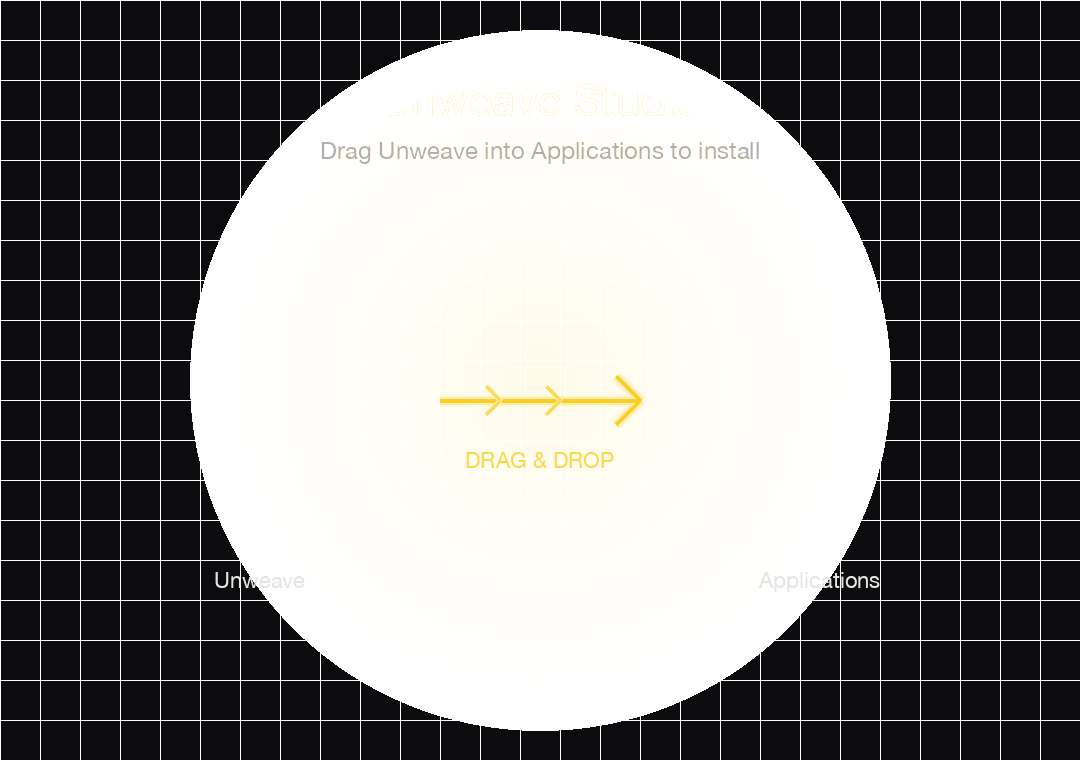
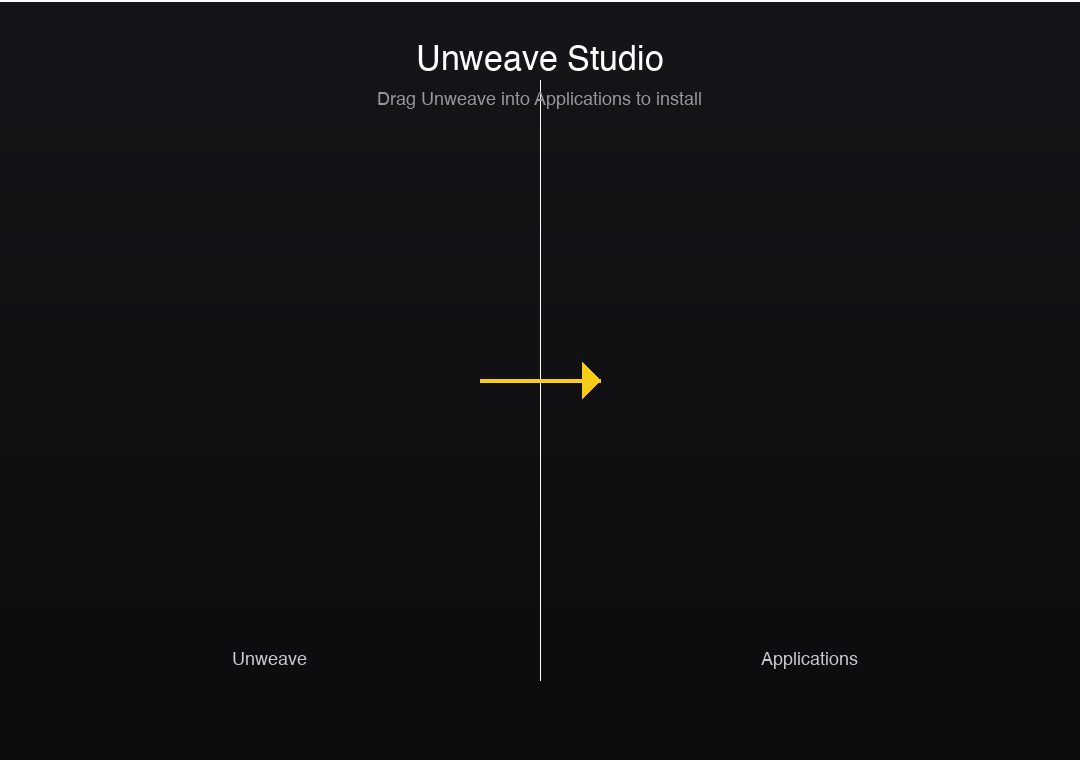
fix(dmg): clean minimal dark background, remove broken grid/circle art

diff --git a/scripts/generate_dmg_background.py b/scripts/generate_dmg_background.py
@@ -1,96 +1,78 @@
 #!/usr/bin/env python3
 """
-Generates a Retina macOS DMG background image (1080x760 px for 540x380 window).
+Generates a clean, professional macOS DMG background (1080x760 Retina = 540x380 window).
 """
 import os
-import math
 from PIL import Image, ImageDraw, ImageFont
 
 def create_dmg_background(output_path):
     width = 1080
     height = 760
-    
-    # Create dark image
-    img = Image.new("RGBA", (width, height), (12, 12, 14, 255))
+
+    # Clean dark slate background
+    img = Image.new("RGBA", (width, height), (18, 18, 22, 255))
     draw = ImageDraw.Draw(img)
-    
-    # Radial ambient gold glow in the center
-    center_x, center_y = width // 2, height // 2
-    for r in range(350, 0, -5):
-        alpha = int(25 * (1.0 - (r / 350.0))**1.5)
-        color = (250, 204, 21, alpha)
-        draw.ellipse([center_x - r, center_y - r, center_x + r, center_y + r], fill=color)
 
-    # Ambient subtle grid or gradient
-    for y in range(0, height, 40):
-        draw.line([(0, y), (width, y)], fill=(255, 255, 255, 4), width=1)
-    for x in range(0, width, 40):
-        draw.line([(x, 0), (x, height)], fill=(255, 255, 255, 4), width=1)
+    # Subtle vertical gradient overlay
+    for y in range(height):
+        factor = y / height
+        r = int(22 * (1 - factor) + 12 * factor)
+        g = int(22 * (1 - factor) + 12 * factor)
+        b = int(26 * (1 - factor) + 14 * factor)
+        draw.line([(0, y), (width, y)], fill=(r, g, b, 255))
 
-    # Top Header Title: "UNWEAVE STUDIO"
-    # Left zone: x=260, y=400 (icon is at x=130, y=200 in 1x scale)
-    # Right zone: x=820, y=400 (icon is at x=410, y=200 in 1x scale)
+    # Subtle divider line in the center
+    center_x = width // 2
+    draw.line([(center_x, 80), (center_x, height - 80)], fill=(255, 255, 255, 18), width=1)
 
-    # Center Directional Arrow (from x=420 to x=660, y=400)
-    arrow_y = 400
-    arrow_start_x = 440
-    arrow_end_x = 640
+    # Arrow pointing right — clean, simple, centered
+    arrow_y = height // 2
+    arrow_x1 = center_x - 60
+    arrow_x2 = center_x + 60
+    # Line
+    draw.line([(arrow_x1, arrow_y), (arrow_x2, arrow_y)], fill=(250, 204, 21, 200), width=4)
+    # Arrowhead
+    head = 18
+    draw.polygon([
+        (arrow_x2, arrow_y),
+        (arrow_x2 - head, arrow_y - head),
+        (arrow_x2 - head, arrow_y + head),
+    ], fill=(250, 204, 21, 200))
 
-    # Draw glowing arrow line
-    for w, alpha in [(12, 40), (8, 90), (4, 240)]:
-        draw.line([(arrow_start_x, arrow_y), (arrow_end_x, arrow_y)], fill=(250, 204, 21, alpha), width=w)
-        # Arrowhead
-        head_len = 24
-        draw.line([(arrow_end_x - head_len, arrow_y - head_len), (arrow_end_x, arrow_y)], fill=(250, 204, 21, alpha), width=w)
-        draw.line([(arrow_end_x - head_len, arrow_y + head_len), (arrow_end_x, arrow_y)], fill=(250, 204, 21, alpha), width=w)
-
-    # Chevrons
-    for cx in [500, 560]:
-        for w, alpha in [(6, 50), (3, 180)]:
-            draw.line([(cx - 14, arrow_y - 14), (cx, arrow_y)], fill=(250, 204, 21, alpha), width=w)
-            draw.line([(cx - 14, arrow_y + 14), (cx, arrow_y)], fill=(250, 204, 21, alpha), width=w)
-
-    # Try loading a system font
-    font_large = None
+    # Try to load a system font
+    font_title = None
     font_sub = None
-    font_label = None
-    
-    font_paths = [
-        "/System/Library/Fonts/SFPro-Bold.otf",
-        "/System/Library/Fonts/SFProDisplay-Bold.otf",
-        "/System/Library/Fonts/HelveticaNeue.ttc",
-        "/System/Library/Fonts/Supplemental/Arial Bold.ttf",
+    for fp in [
         "/System/Library/Fonts/Helvetica.ttc",
-    ]
-    
-    for fp in font_paths:
+        "/System/Library/Fonts/SFPro-Bold.otf",
+        "/System/Library/Fonts/Supplemental/Arial Bold.ttf",
+    ]:
         if os.path.exists(fp):
             try:
-                font_large = ImageFont.truetype(fp, 44)
-                font_sub = ImageFont.truetype(fp, 24)
-                font_label = ImageFont.truetype(fp, 22)
+                font_title = ImageFont.truetype(fp, 34)
+                font_sub = ImageFont.truetype(fp, 18)
                 break
             except Exception:
                 continue
-
-    if not font_large:
-        font_large = ImageFont.load_default()
+    if not font_title:
+        font_title = ImageFont.load_default()
         font_sub = ImageFont.load_default()
-        font_label = ImageFont.load_default()
 
-    # Draw Text
-    draw.text((center_x, 100), "Unweave Studio", fill=(255, 255, 255, 240), font=font_large, anchor="mm")
-    draw.text((center_x, 150), "Drag Unweave into Applications to install", fill=(161, 161, 170, 220), font=font_sub, anchor="mm")
-    draw.text((center_x, 460), "DRAG & DROP", fill=(250, 204, 21, 200), font=font_label, anchor="mm")
+    # Top title
+    draw.text((width // 2, 60), "Unweave Studio", fill=(255, 255, 255, 220), font=font_title, anchor="mm")
+    draw.text((width // 2, 100), "Drag Unweave into Applications to install", fill=(150, 150, 160, 200), font=font_sub, anchor="mm")
 
-    # Left & Right target labels
-    draw.text((260, 580), "Unweave", fill=(220, 220, 220, 200), font=font_label, anchor="mm")
-    draw.text((820, 580), "Applications", fill=(220, 220, 220, 200), font=font_label, anchor="mm")
+    # Left label — App
+    draw.text((270, height - 100), "Unweave", fill=(200, 200, 210, 180), font=font_sub, anchor="mm")
+    # Right label — Applications
+    draw.text((810, height - 100), "Applications", fill=(200, 200, 210, 180), font=font_sub, anchor="mm")
 
-    # Save
+    # Thin top border
+    draw.line([(0, 0), (width, 0)], fill=(255, 255, 255, 30), width=2)
+
     os.makedirs(os.path.dirname(output_path), exist_ok=True)
-    img.save(output_path, "PNG")
-    print(f"✅ Generated DMG background at {output_path}")
+    img.convert("RGB").save(output_path, "PNG")
+    print(f"✅ Generated clean DMG background at {output_path}")
 
 if __name__ == "__main__":
     out = os.path.join(os.path.dirname(__file__), "..", "desktop", "assets", "dmg-background.png")
